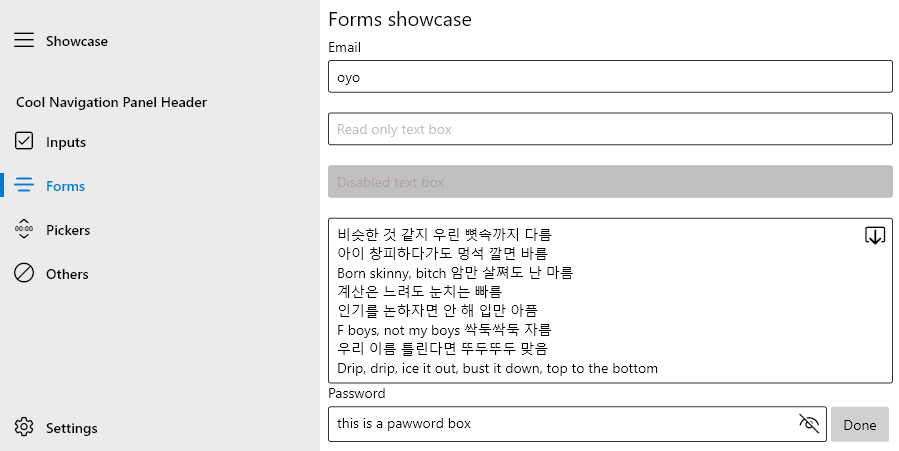
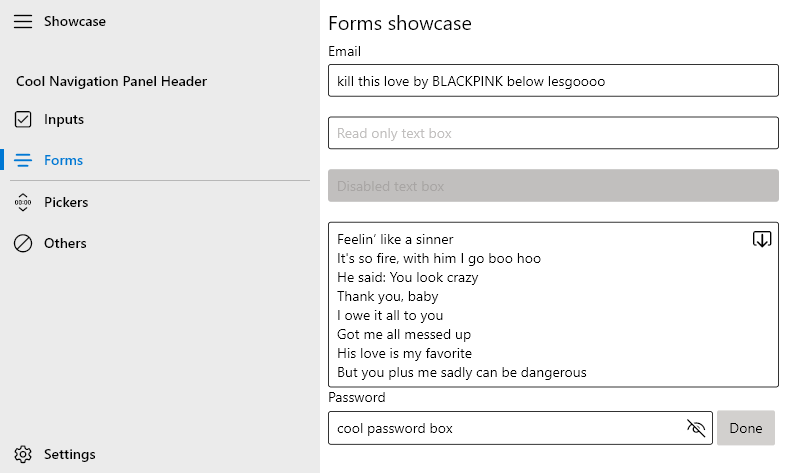
Version 1.2.1. Read the changelog

diff --git a/lib/src/controls/utils/divider.dart b/lib/src/controls/utils/divider.dart
@@ -3,22 +3,27 @@ import 'package:fluent_ui/fluent_ui.dart';
 class Divider extends StatelessWidget {
   const Divider({
     Key? key,
-    this.direction = Axis.vertical,
+    this.direction = Axis.horizontal,
     this.style,
+    this.size,
   }) : super(key: key);
 
   final Axis direction;
   final DividerStyle? style;
 
+  final double? size;
+
   @override
   Widget build(BuildContext context) {
     debugCheckHasFluentTheme(context);
-    final style = context.theme!.dividerStyle!.copyWith(this.style);
-    return Container(
-      height: direction == Axis.horizontal ? style.thickness : double.infinity,
-      width: direction == Axis.vertical ? style.thickness : double.infinity,
-      margin: style.margin,
-      decoration: style.decoration,
+    final style = context.theme!.dividerStyle?.copyWith(this.style);
+    return AnimatedContainer(
+      duration: context.theme!.fastAnimationDuration ?? Duration.zero,
+      curve: context.theme!.animationCurve ?? Curves.linear,
+      height: direction == Axis.horizontal ? style?.thickness : size,
+      width: direction == Axis.vertical ? style?.thickness : size,
+      margin: style?.margin?.call(direction),
+      decoration: style?.decoration,
     );
   }
 }
@@ -26,30 +31,35 @@ class Divider extends StatelessWidget {
 class DividerStyle {
   final double? thickness;
   final Decoration? decoration;
-  final EdgeInsetsGeometry? margin;
+  final EdgeInsetsGeometry Function(Axis direction)? margin;
 
-  DividerStyle({this.thickness, this.decoration, this.margin});
+  const DividerStyle({this.thickness, this.decoration, this.margin});
 
-  static DividerStyle defaultTheme([Brightness? brightness]) {
-    final def = DividerStyle(
-      thickness: 5,
-      margin: EdgeInsets.zero,
+  static DividerStyle defaultTheme(Style style) {
+    return DividerStyle(
+      thickness: 1,
+      margin: (direction) {
+        if (direction == Axis.horizontal)
+          return EdgeInsets.symmetric(horizontal: 10);
+        else
+          return EdgeInsets.symmetric(vertical: 10);
+      },
+      decoration: () {
+        if (style.brightness == Brightness.light) {
+          return BoxDecoration(color: Color(0XFFB7B7B7));
+        } else {
+          return BoxDecoration(color: Color(0xFF484848));
+        }
+      }(),
     );
-    if (brightness == null || brightness == Brightness.light)
-      return def.copyWith(DividerStyle(
-        decoration: BoxDecoration(color: Colors.grey),
-      ));
-    else
-      return def.copyWith(DividerStyle(
-        decoration: BoxDecoration(color: Colors.grey[30]),
-      ));
   }
 
   DividerStyle copyWith(DividerStyle? style) {
+    if (style == null) return this;
     return DividerStyle(
-      decoration: style?.decoration ?? decoration,
-      margin: style?.margin ?? margin,
-      thickness: style?.thickness ?? thickness,
+      decoration: style.decoration ?? decoration,
+      margin: style.margin ?? margin,
+      thickness: style.thickness ?? thickness,
     );
   }
 }

diff --git a/lib/src/controls/inputs/icon_button.dart b/lib/src/controls/inputs/icon_button.dart
@@ -12,7 +12,7 @@ class IconButton extends StatelessWidget {
     this.focusNode,
   }) : super(key: key);
 
-  final Widget? icon;
+  final Widget icon;
 
   final VoidCallback? onPressed;
   final VoidCallback? onLongPress;
@@ -28,7 +28,10 @@ class IconButton extends StatelessWidget {
     final style = context.theme!.iconButtonStyle!.copyWith(this.style);
     return Button(
       focusNode: focusNode,
-      text: icon,
+      text: Theme(
+        data: context.theme!.copyWith(Style(iconStyle: style.iconStyle)),
+        child: icon,
+      ),
       onPressed: onPressed,
       onLongPress: onLongPress,
       semanticsLabel: semanticsLabel,
@@ -51,11 +54,13 @@ class IconButtonStyle {
 
   final ButtonState<MouseCursor>? cursor;
 
-  final ButtonState<Border>? border;
+  final ButtonState<Border?>? border;
   final BorderRadiusGeometry? borderRadius;
 
   final EdgeInsetsGeometry? padding;
   final EdgeInsetsGeometry? margin;
+
+  final IconStyle? iconStyle;
 
   const IconButtonStyle({
     this.color,
@@ -64,6 +69,7 @@ class IconButtonStyle {
     this.borderRadius,
     this.padding,
     this.margin,
+    this.iconStyle,
   });
 
   static IconButtonStyle defaultTheme(Style style) {
@@ -73,6 +79,7 @@ class IconButtonStyle {
       border: (_) => Border.all(style: BorderStyle.none),
       padding: EdgeInsets.all(4),
       color: (state) => uncheckedInputColor(style, state),
+      iconStyle: style.iconStyle,
     );
     return def;
   }
@@ -85,6 +92,7 @@ class IconButtonStyle {
       margin: style?.margin ?? margin,
       padding: style?.padding ?? padding,
       cursor: style?.cursor ?? cursor,
+      iconStyle: style?.iconStyle,
     );
   }
 }

diff --git a/lib/src/controls/form/text_box.dart b/lib/src/controls/form/text_box.dart
@@ -122,6 +122,7 @@ class TextBox extends StatefulWidget {
     this.textCapitalization = TextCapitalization.none,
     this.header,
     this.headerStyle,
+    this.iconButtonStyle,
   })  : assert(obscuringCharacter.length == 1),
         smartDashesType = smartDashesType ??
             (obscureText ? SmartDashesType.disabled : SmartDashesType.enabled),
@@ -265,6 +266,8 @@ class TextBox extends StatefulWidget {
   final Iterable<String>? autofillHints;
 
   final String? restorationId;
+
+  final IconButtonStyle? iconButtonStyle;
 
   @override
   _TextBoxState createState() => _TextBoxState();
@@ -731,7 +734,7 @@ class _TextBoxState extends State<TextBox>
       ),
     );
 
-    return ValueListenableBuilder<TextEditingValue>(
+    Widget listener = ValueListenableBuilder<TextEditingValue>(
       valueListenable: _effectiveController,
       builder: (context, text, _) => Column(
         mainAxisSize: MainAxisSize.min,
@@ -752,6 +755,25 @@ class _TextBoxState extends State<TextBox>
           ]),
         ],
       ),
+    );
+
+    return Theme(
+      data: context.theme!.copyWith(
+        Style(
+          iconButtonStyle: IconButtonStyle.defaultTheme(context.theme!)
+              .copyWith(
+                IconButtonStyle(
+                  iconStyle: context.theme!.iconStyle?.copyWith(
+                    IconStyle(
+                      size: 18,
+                    ),
+                  ),
+                ),
+              )
+              .copyWith(widget.iconButtonStyle),
+        ),
+      ),
+      child: listener,
     );
   }
 }

diff --git a/lib/src/controls/navigation/navigation_panel/display_modes/compact.dart b/lib/src/controls/navigation/navigation_panel/display_modes/compact.dart
@@ -64,8 +64,7 @@ class CompactOpenNavigationPanel extends StatelessWidget {
                       ),
                     );
                   else if (item is NavigationPanelTileSeparator) {
-                    // TODO: NavigationPanelTileSeparator
-                    return SizedBox();
+                    return Divider();
                   }
                   final index = itens.indexOf(item);
                   return NavigationPanelItemTile(
@@ -121,8 +120,8 @@ class CompactOpenNavigationPanel extends StatelessWidget {
                               fontWeight: FontWeight.bold,
                               color: Colors.black,
                             ),
-                        duration:
-                            context.theme!.mediumAnimationDuration ?? Duration.zero,
+                        duration: context.theme!.mediumAnimationDuration ??
+                            Duration.zero,
                         curve: context.theme!.animationCurve ?? standartCurve,
                         child: item.label!,
                         softWrap: false,
@@ -131,8 +130,7 @@ class CompactOpenNavigationPanel extends StatelessWidget {
                       ),
                     );
                   else if (item is NavigationPanelTileSeparator) {
-                    // TODO: NavigationPanelTileSeparator
-                    return SizedBox();
+                    return Divider();
                   }
                   final index = itens.indexOf(item);
                   return NavigationPanelItemTile(

diff --git a/lib/src/styles/theme.dart b/lib/src/styles/theme.dart
@@ -148,7 +148,7 @@ class Style {
       tooltipStyle:
           TooltipStyle.defaultTheme(defaultStyle).copyWith(tooltipStyle),
       dividerStyle:
-          DividerStyle.defaultTheme(brightness).copyWith(dividerStyle),
+          DividerStyle.defaultTheme(defaultStyle).copyWith(dividerStyle),
       navigationPanelStyle: NavigationPanelStyle.defaultTheme(defaultStyle)
           .copyWith(navigationPanelStyle),
       radioButtonStyle: RadioButtonStyle.defaultTheme(defaultStyle)

diff --git a/lib/fluent_ui.dart b/lib/fluent_ui.dart
@@ -2,7 +2,12 @@ library fluent_ui;
 
 export 'package:flutter/widgets.dart' hide Icon, IconTheme, TextBox;
 export 'package:flutter/material.dart'
-    show Brightness, ThemeMode, Feedback, DefaultMaterialLocalizations, PageTransitionsBuilder;
+    show
+        Brightness,
+        ThemeMode,
+        Feedback,
+        DefaultMaterialLocalizations,
+        PageTransitionsBuilder;
 
 export 'src/app.dart';
 export 'src/utils.dart';

diff --git a/lib/src/controls/navigation/navigation_panel/style.dart b/lib/src/controls/navigation/navigation_panel/style.dart
@@ -37,7 +37,7 @@ class NavigationPanelStyle {
       fontWeight: FontWeight.bold,
     );
     return NavigationPanelStyle(
-      animationDuration: style.mediumAnimationDuration,
+      animationDuration: style.fastAnimationDuration,
       animationCurve: style.animationCurve,
       color: (state) => uncheckedInputColor(style, state),
       highlightColor: style.accentColor,

diff --git a/lib/src/controls/inputs/button.dart b/lib/src/controls/inputs/button.dart
@@ -27,8 +27,9 @@ class Button extends StatefulWidget {
     this.onLongPress,
     this.semanticsLabel,
     this.focusNode,
-  })  : text = IconButton(
-          icon: icon,
+  })  : assert(icon != null),
+        text = IconButton(
+          icon: icon!,
           onPressed: onPressed,
           onLongPress: onLongPress,
           semanticsLabel: semanticsLabel,

diff --git a/example/lib/screens/forms.dart b/example/lib/screens/forms.dart
@@ -52,6 +52,7 @@ class _FormsState extends State<Forms> {
           header: 'Password',
           placeholder: 'Type your placeholder here',
           obscureText: !_showPassword,
+          obscuringCharacter: '#',
           maxLines: 1,
           suffixMode: OverlayVisibilityMode.editing,
           suffix: IconButton(

diff --git a/example/lib/main.dart b/example/lib/main.dart
@@ -21,7 +21,9 @@ class MyApp extends StatelessWidget {
       routes: {
         '/': (_) => MyHomePage(),
       },
-      style: Style(brightness: Brightness.dark),
+      style: Style(
+          // brightness: Brightness.dark,
+          ),
     );
   }
 }

diff --git a/README.md b/README.md
@@ -91,13 +91,15 @@ Theme(
 
 ### Icons
 
+![Icons Preview](https://github.com/microsoft/fluentui-system-icons/raw/master/art/readme-banner.png)
+
 Inside your app, you use icons to represent an action, such as copying text or navigating to the settings page. This library includes an icon library with it, so you can just call `Icons.[icon_name]` in any `Icon` widget:
 
 ```dart
 Icon(Icons.add_regular)
 ```
 
-To style icons, you can use `IconStyle` in the app `Style` or use the property `style` in the `Icon` widget
+To style icons, you can use `IconStyle` in the app `Style` or use the property `style` in the `Icon` widget. You can see the list of icons [here](https://github.com/microsoft/fluentui-system-icons/blob/master/icons.md)
 
 ![](https://docs.microsoft.com/en-us/windows/uwp/design/style/images/icons/inside-icons.png)
 

diff --git a/CHANGELOG.md b/CHANGELOG.md
@@ -1,5 +1,9 @@
 Date format: DD/MM/YYYY
 
+## [1.2.1] - [16/03/2021]
+
+- **NEW** `Divider`
+
 ## [1.2.0] - Timing and easing - Page transitioning - [15/03/2021]
 
 - **FIDELITY** Improved `ToggleButton` fidelity
